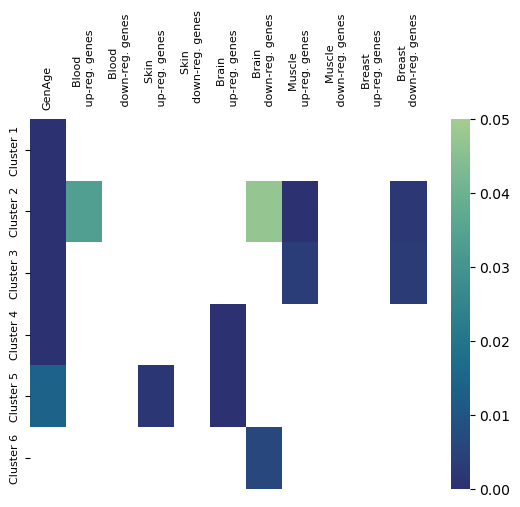
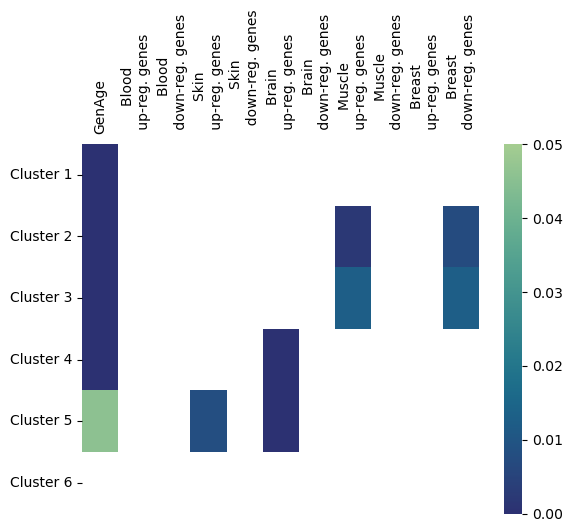
update physio aging enrichment results

diff --git a/_05_Enrichment_PhysioAging_Genes/enrichment_physio_aging.py b/_05_Enrichment_PhysioAging_Genes/enrichment_physio_aging.py
@@ -3,11 +3,11 @@ import pandas as pd
 import os
 import argparse
 import sys
-import networkx as nx
 import numpy as np
 from matplotlib import pyplot as plt
 import seaborn as sns
-import scipy.stats as stats
+from pathlib import Path
+from statsmodels.sandbox.stats.multicomp import multipletests
 import useful_functions_enrichment
 
 # define path
@@ -65,21 +65,22 @@ def create_enrichment_file_genage(genage: list, dico_clusters_nodes: dict, all_n
         the statistical significance of the analysis
     """
     df = pd.DataFrame(np.zeros((6, 3)))
-    df.columns = ['Cluster', 'Fisher test p-value', 'Hypergeometric test p-value']
+    df.columns = ['Cluster', 'Hypergeometric test p-value', 'Corrected p-value']
     i = 0
     for cluster in dico_clusters_nodes:
         nodes_cluster = dico_clusters_nodes[cluster]                         
         h_pval = useful_functions_enrichment.hypergeome(list1=nodes_cluster, list2=genage, gene_pool=all_nodes)
-        f_pval = useful_functions_enrichment.fisher(list1=nodes_cluster, list2=genage, gene_pool=all_nodes)
         df._set_value(i, 'Cluster', int(cluster[8:]))
-        df._set_value(i, 'Fisher test p-value', f_pval)
         df._set_value(i, 'Hypergeometric test p-value', h_pval)
         i += 1
+    pvals = df['Hypergeometric test p-value'].to_list()
+    p_adjusted = multipletests(pvals, alpha=0.05, method='fdr_bh')[1]
+    df['Corrected p-value'] = p_adjusted
     df.to_csv(path + f"output_tables/enrichment_clusters_GenAge.csv", sep=",", index=False)
 
 create_enrichment_file_genage(genage=genage, dico_clusters_nodes=dico_clusters_nodes, all_nodes=all_nodes)
 
-def enrich_clusters_all_physio_aging(dico_clusters_nodes: dict, all_nodes: list, seeds: list, cluster: str, matrix: np.array, genage: list, mapping_file_path: str, tissue="GenAge", deg="GenAge"):
+def enrich_clusters_all_physio_aging(dico_clusters_nodes: dict, all_nodes: list, seeds: list, cluster: str, genage: list, mapping_file_path: str, tissue="GenAge", deg="GenAge"):
     """Function that performs an hypergeometric test for the enrichment analysis of a list of
     physiological aging genes in the 6 clusters
 
@@ -115,85 +116,77 @@ def enrich_clusters_all_physio_aging(dico_clusters_nodes: dict, all_nodes: list,
                 )
     elif deg == "GenAge" or tissue == "GenAge":
         genes_enrich = genage
-    
-    # state coordinates of enrichment results in the matrix
-    if cluster == "cluster_1":
-        i = 0
-    elif cluster == "cluster_2":
-        i = 1
-    elif cluster == "cluster_3":
-        i = 2
-    elif cluster == "cluster_4":
-        i = 3
-    elif cluster == "cluster_5":
-        i = 4
-    elif cluster == "cluster_6":
-        i = 5
-    
-    if tissue == "GenAge" and deg == "GenAge":
-        j = 0
-    elif tissue == "blood" and deg == "up":
-        j = 1
-    elif tissue == "blood" and deg == "down":
-        j = 2
-    elif tissue == "skin" and deg == "up":
-        j = 3
-    elif tissue == "skin" and deg == "down":
-        j = 4
-    elif tissue == "brain" and deg == "up":
-        j = 5
-    elif tissue == "brain" and deg == "down":
-        j = 6
-    elif tissue == "muscle" and deg == "up":
-        j = 7
-    elif tissue == "muscle" and deg == "down":
-        j = 8
-    elif tissue == "breast" and deg == "up":
-        j = 9
-    elif tissue == "breast" and deg == "down":
-        j = 10
+
     # extract nodes of cluster
     nodes_cluster = dico_clusters_nodes[cluster]
+    intersection = set(nodes_cluster).intersection(set(genes_enrich))
+
     # perform hypergeometric test
     h_pval = useful_functions_enrichment.hypergeome(list1=nodes_cluster, list2=genes_enrich, gene_pool=all_nodes)
-    # add p-value in the matrix
-    matrix[i][j] = h_pval
-    return h_pval
 
+    return h_pval, nodes_cluster, genes_enrich, intersection
+
+def fill_enrichment_table(df: pd.DataFrame, position: int, cluster: str, physio_aging_genes: str, pval: float, nodes_cluster: list, genes_enrich: list, intersection: set, seeds: list):
+    df.at[position, 'Cluster'] = cluster
+    df.at[position, "List of physio aging genes"] = physio_aging_genes
+    df.at[position, 'Nb genes cluster'] = len(list(nodes_cluster))
+    df.at[position, 'Nb genes in physio aging list'] = len(list(genes_enrich))
+    df.at[position, "Background"] = len(all_nodes)
+    df.at[position, "Nb genes intersection"] = len(intersection)
+    if intersection != set():
+        df.at[position, "Intersection"] = intersection
+    df.at[position, "p-value"] = pval
+    physio_aging_seeds = list()
+    for gene in genes_enrich:
+        if gene in seeds:
+            physio_aging_seeds.append(gene)
+    df.at[position, "Seeds"] = physio_aging_seeds
 
 def heatmap_enrichment(dico_clusters_nodes: dict, all_nodes: list, seeds: list, genage: list, mapping_file_path: str):
-    # initialize enrichment matrix
-    enrichment_matrix = np.zeros((len(dico_clusters_nodes), 11))
-    df = pd.DataFrame(columns = ['Cluster', 'GenAge', 'Blood up-reg. genes', 'Blood down-reg. genes', 'Skin up-reg. genes', 'Skin down-reg. genes', 'Brain up-reg. genes', 'Brain down-reg. genes', 'Muscle up-reg. genes', 'Muscle down-reg. genes', 'Breast up-reg. genes', 'Breast down-reg. genes'])
+    physio_aging_genes_list = ['GenAge', 'Blood up-reg. genes', 'Blood down-reg. genes', 'Skin up-reg. genes', 'Skin down-reg. genes', 'Brain up-reg. genes', 'Brain down-reg. genes', 'Muscle up-reg. genes', 'Muscle down-reg. genes', 'Breast up-reg. genes', 'Breast down-reg. genes']
+    tissues_list = ['GenAge', 'blood', 'blood', 'skin', 'skin', 'brain', 'brain', 'muscle', 'muscle', 'breast', 'breast']
+    deg_list = ['GenAge', 'up', 'down', 'up', 'down', 'up', 'down', 'up', 'down', 'up', 'down']
+    summary_pvalues = pd.DataFrame(columns = ['Cluster', 'GenAge', 'Blood up-reg. genes', 'Blood down-reg. genes', 'Skin up-reg. genes', 'Skin down-reg. genes', 'Brain up-reg. genes', 'Brain down-reg. genes', 'Muscle up-reg. genes', 'Muscle down-reg. genes', 'Breast up-reg. genes', 'Breast down-reg. genes'])
     i = 0
     for cluster in dico_clusters_nodes:
-        # perform hypergeometric tests for all lists of genes
-        pval_genage = enrich_clusters_all_physio_aging(dico_clusters_nodes, all_nodes, seeds, cluster, enrichment_matrix, genage, mapping_file_path, "GenAge", "GenAge")
-        pval_blood_up = enrich_clusters_all_physio_aging(dico_clusters_nodes, all_nodes, seeds, cluster, enrichment_matrix, genage, mapping_file_path, "blood", "up")
-        pval_blood_down = enrich_clusters_all_physio_aging(dico_clusters_nodes, all_nodes, seeds, cluster, enrichment_matrix, genage, mapping_file_path, "blood", "down")
-        pval_skin_up = enrich_clusters_all_physio_aging(dico_clusters_nodes, all_nodes, seeds, cluster, enrichment_matrix, genage, mapping_file_path, "skin", "up")
-        pval_skin_down = enrich_clusters_all_physio_aging(dico_clusters_nodes, all_nodes, seeds, cluster, enrichment_matrix, genage, mapping_file_path, "skin", "down")
-        pval_brain_up = enrich_clusters_all_physio_aging(dico_clusters_nodes, all_nodes, seeds, cluster, enrichment_matrix, genage, mapping_file_path, "brain", "up")
-        pval_brain_down = enrich_clusters_all_physio_aging(dico_clusters_nodes, all_nodes, seeds, cluster, enrichment_matrix, genage, mapping_file_path, "brain", "down")
-        pval_muscle_up = enrich_clusters_all_physio_aging(dico_clusters_nodes, all_nodes, seeds, cluster, enrichment_matrix, genage, mapping_file_path, "muscle", "up")
-        pval_muscle_down = enrich_clusters_all_physio_aging(dico_clusters_nodes, all_nodes, seeds, cluster, enrichment_matrix, genage, mapping_file_path, "muscle", "down")
-        pval_breast_up = enrich_clusters_all_physio_aging(dico_clusters_nodes, all_nodes, seeds, cluster, enrichment_matrix, genage, mapping_file_path, "breast", "up")
-        pval_breast_down = enrich_clusters_all_physio_aging(dico_clusters_nodes, all_nodes, seeds, cluster, enrichment_matrix, genage, mapping_file_path, "breast", "down")
-        df.at[i, 'Cluster'] = str(cluster)
-        df.at[i, 'GenAge'] = pval_genage
-        df.at[i, 'Blood up-reg. genes'] = pval_blood_up
-        df.at[i, 'Blood down-reg. genes'] = pval_blood_down
-        df.at[i, 'Skin up-reg. genes'] = pval_skin_up
-        df.at[i, 'Skin down-reg. genes'] = pval_skin_down
-        df.at[i, 'Brain up-reg. genes'] = pval_brain_up
-        df.at[i, 'Brain down-reg. genes'] = pval_brain_down
-        df.at[i, 'Muscle up-reg. genes'] = pval_muscle_up
-        df.at[i, 'Muscle down-reg. genes'] = pval_muscle_down
-        df.at[i, 'Breast up-reg. genes'] = pval_breast_up
-        df.at[i, 'Breast down-reg. genes'] = pval_breast_down
+        enrich_results_table = pd.DataFrame(columns=["Cluster", "List of physio aging genes", "Nb genes cluster", "Nb genes in physio aging list", "p-value", "Corrected p-value", "Background", "Nb genes intersection", "Intersection", "Seeds"])
+        summary_pvalues.at[i, 'Cluster'] = str(cluster)
+        j = 1
+        for physio_aging_genes, tissue, deg in zip(physio_aging_genes_list, tissues_list, deg_list):
+            print(physio_aging_genes, tissue, deg)
+            # perform hypergeometric tests for all lists of genes
+            pval, nodes_cluster, genes_enrich, intersection = enrich_clusters_all_physio_aging(dico_clusters_nodes=dico_clusters_nodes, all_nodes=all_nodes, seeds=seeds, cluster=cluster, genage=genage, mapping_file_path=mapping_file_path, tissue=tissue, deg=deg)
+            fill_enrichment_table(df=enrich_results_table, position=j, cluster=cluster, physio_aging_genes=physio_aging_genes, pval=pval, nodes_cluster=nodes_cluster, genes_enrich=genes_enrich, intersection=intersection, seeds=seeds)
+            j += 1
+        # adjust the pvalues: Benjamini-Hochberg
+        pvals = enrich_results_table['p-value'].to_list()
+        p_adjusted = multipletests(pvals, alpha=0.05, method='fdr_bh')[1]
+        enrich_results_table['Corrected p-value'] = p_adjusted
+        # export enrichment file for the cluster
+        enrich_results_table.to_csv(f"output_tables/enrichment_details/enrichment_{cluster}.csv", sep=",", index=False)
+
+        # fill p-values summary table for the cluster
+        summary_pvalues.at[i, 'GenAge'] = p_adjusted[0]
+        summary_pvalues.at[i, 'Blood up-reg. genes'] = p_adjusted[1]
+        summary_pvalues.at[i, 'Blood down-reg. genes'] = p_adjusted[2]
+        summary_pvalues.at[i, 'Skin up-reg. genes'] = p_adjusted[3]
+        summary_pvalues.at[i, 'Skin down-reg. genes'] = p_adjusted[4]
+        summary_pvalues.at[i, 'Brain up-reg. genes'] = p_adjusted[5]
+        summary_pvalues.at[i, 'Brain down-reg. genes'] = p_adjusted[6]
+        summary_pvalues.at[i, 'Muscle up-reg. genes'] = p_adjusted[7]
+        summary_pvalues.at[i, 'Muscle down-reg. genes'] = p_adjusted[8]
+        summary_pvalues.at[i, 'Breast up-reg. genes'] = p_adjusted[9]
+        summary_pvalues.at[i, 'Breast down-reg. genes'] = p_adjusted[10]
         i += 1
-    # export enrichment results to table
-    df.to_csv(f"output_tables/enrichment_clusters_physio_aging_genes.csv", sep=",", index=False)
+    # export p-values summary table to csv file
+    summary_pvalues.to_csv(f"output_tables/enrichment_clusters_physio_aging_genes.csv", sep=",", index=False)
+
+    # create an enrichment matrix for heatmap visualization
+    summary_pvalues = summary_pvalues.drop(columns=["Cluster"])
+    #enrichment_matrix = np.zeros((len(dico_clusters_nodes), 11))
+    enrichment_matrix = np.zeros(summary_pvalues.shape)
+    enrichment_matrix[enrichment_matrix == 0] = summary_pvalues.values[enrichment_matrix == 0]
+
     # plot enrichment heatmap
     ax = plt.axes()
     y_labels = ["Cluster 1", "Cluster 2", "Cluster 3", "Cluster 4", "Cluster 5", "Cluster 6"]
@@ -210,7 +203,7 @@ def heatmap_enrichment(dico_clusters_nodes: dict, all_nodes: list, seeds: list, 
         "Breast \n up-reg. genes",
         "Breast \n down-reg. genes"
         ]
-    plt.tick_params(axis='both', which='major', labelsize=8, labelbottom = False, bottom=False, top = False, labeltop=True)
+    plt.tick_params(axis='both', which='major', labelsize=10, labelbottom = False, bottom=False, top = False, labeltop=True)
     vmin = 0
     vmax = 0.05
     mask = np.logical_or(enrichment_matrix < vmin, enrichment_matrix > vmax)
@@ -228,3 +221,35 @@ def heatmap_enrichment(dico_clusters_nodes: dict, all_nodes: list, seeds: list, 
     plt.show()
 
 heatmap_enrichment(dico_clusters_nodes=dico_clusters_nodes, all_nodes=all_nodes, seeds=seeds, genage=genage, mapping_file_path=mapping_file_path)
+
+def clean_and_merge_enrichment_physio_aging_files(dico_clusters_nodes: dict):
+    csv_dir = Path(path + "output_tables/enrichment_details/")
+    csv_data = {}
+    for csv_file in csv_dir.glob('*.csv'):
+        csv_name = csv_file.stem
+        csv_data[csv_name] = pd.read_csv(csv_file, sep=",")
+    writer = pd.ExcelWriter(path + f"output_tables/enrichment_details/enrichment_physioaging.xlsx", engine='xlsxwriter')
+    for sheet_name, sheet_data in csv_data.items():
+        sheet_data.to_excel(writer, sheet_name=sheet_name, index=False)
+    writer.save()
+    for cluster in dico_clusters_nodes:
+        os.remove(f"output_tables/enrichment_details/enrichment_{cluster}.csv")
+
+clean_and_merge_enrichment_physio_aging_files(dico_clusters_nodes=dico_clusters_nodes)
+
+def create_number_DEG_genes_supp_file():
+    list_files = ['Data_PhysioAging/human-blood.txt', 'Data_PhysioAging/human-skin.txt', 'Data_PhysioAging/human-brain.txt', 'Data_PhysioAging/human-muscle.txt', 'Data_PhysioAging/human-breast.txt']
+    list_tissues = ['Blood', 'Skin', 'Brain', 'Muscle', 'Breast']
+    supp_file = pd.DataFrame(columns=["Tissue", "Number of up-regulated genes", "Number of down-regulated genes", "Number of 'other' genes"])
+    i = 0
+    for file, tissue in zip(list_files, list_tissues):
+        genes_up, genes_down, other_genes = useful_functions_enrichment.extract_list_genes_DEG_physio_aging(file)
+        supp_file._set_value(i, "Tissue", tissue)
+        supp_file._set_value(i, "Number of up-regulated genes", len(genes_up))
+        supp_file._set_value(i, "Number of down-regulated genes", len(genes_down))
+        supp_file._set_value(i, "Number of 'other' genes", len(other_genes))
+        i += 1
+    print(supp_file)
+    supp_file.to_csv(path + f"output_tables/number_of_DEG_genes_Irizar_et_al.csv", sep=",", header=1, index=False)
+
+create_number_DEG_genes_supp_file()

diff --git a/_05_Enrichment_PhysioAging_Genes/useful_functions_enrichment.py b/_05_Enrichment_PhysioAging_Genes/useful_functions_enrichment.py
@@ -46,7 +46,7 @@ def load_geneage(file, seeds, nodes_ntw):
             genes_aging_wo_seeds_in_mx.append(str(gene))
     print(f"{len(genes_aging_wo_seeds_in_mx)} aging genes without seeds in network")
     print(f"There are {len(set(genes_aging_wo_seeds_in_mx).intersection(nodes_ntw))} genage genes from the list which are in the multiplex network")
-    return genes_aging_wo_seeds
+    return genes_aging_wo_seeds_in_mx
 
 def extract_genes_from_comm(comm_path: str, size: int, list_id_analyzed: list):
     dico_comm_nodes = {}
